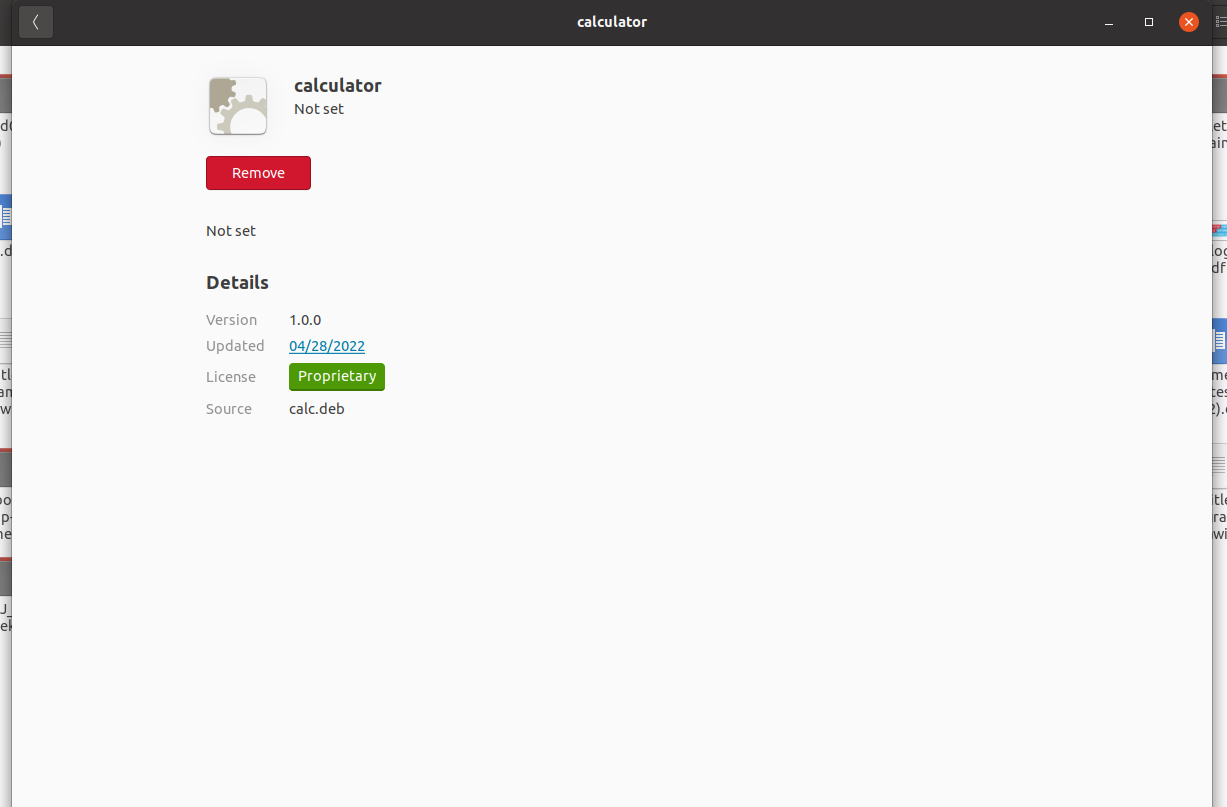
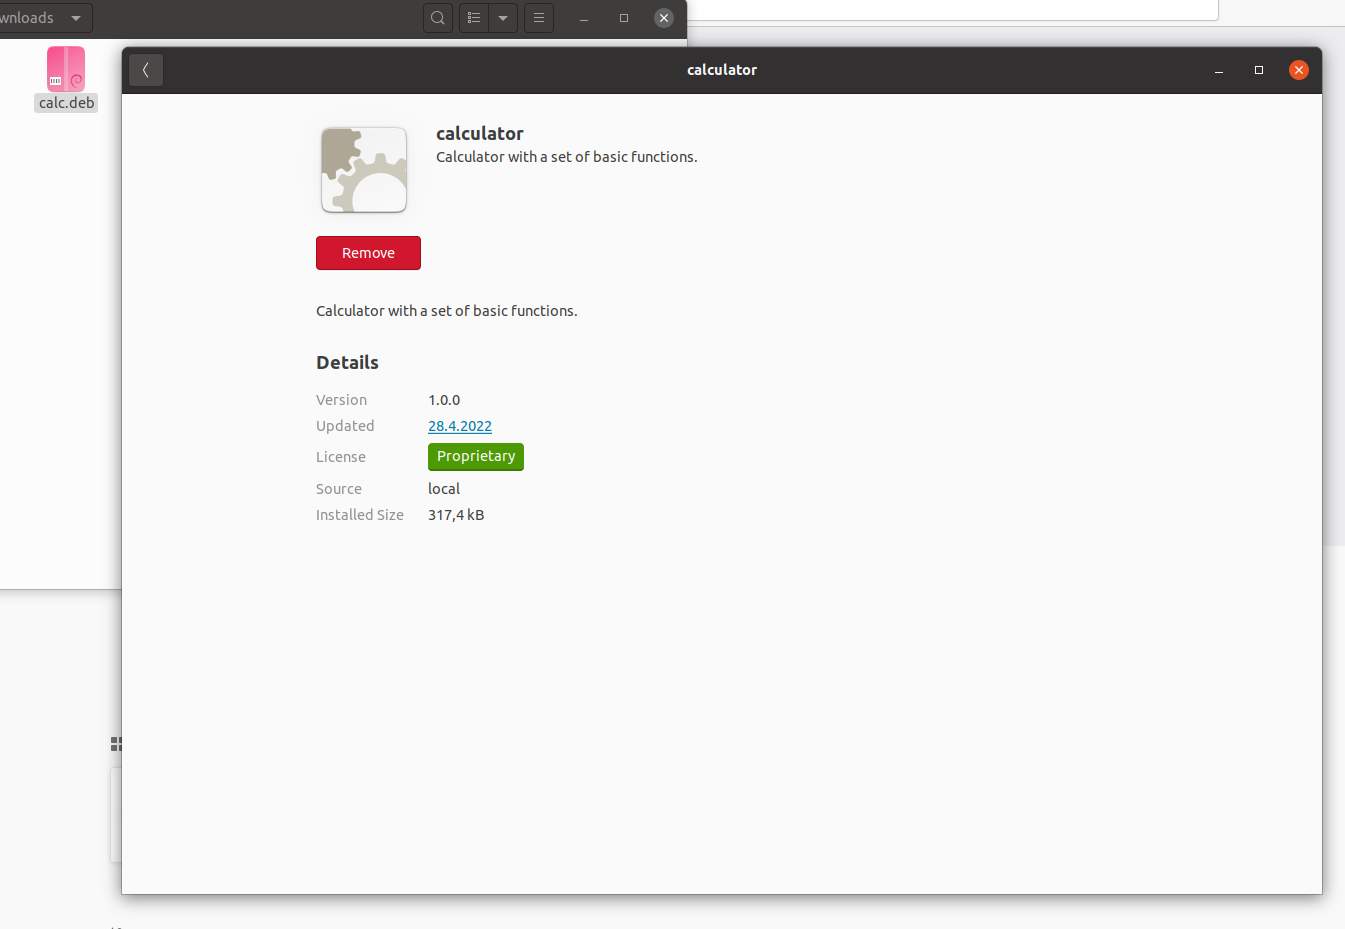
Add a description to debian control file. Add images to readme.

Changed region(s): [[0.0, 0.0, 1.0, 1.0], [0.1548, 0.3408, 0.4026, 0.5576]]

diff --git a/README.md b/README.md
@@ -51,7 +51,10 @@ Aktuální ``calc.deb`` můžete stáhnout v [releases](https://github.com/Werti
 
 ## UI
 
-Nainstalujete dvojklikem na soubor, případně pravým kliknutím a zvolením možnosti "Install package".
+Menu pro instalaci otevřete dvojklikem na soubor, případně pravým kliknutím a zvolením možnosti ``Open with Software Install``.
+![install](assets/install_package.png)
+
+Po kliknutí na ``Install`` se aplikace nainstaluje.
 
 ## Terminál
 
@@ -66,13 +69,17 @@ dpkg -i calc.deb
 
 ### Přes balíček
 
-Opakovaným rozkliknutím instalačního debian balíčku se dá aplikace opět odinstalovat.
+Opakovaným otevřením instalačního menu přes debian balíček se dá aplikace opět odinstalovat.
 ![uninstall](assets/uninstall_package.png)
+
+Po kliknutí na ``Remove`` se aplikace odinstaluje.
 
 ### Přes správce aplikací Ubuntu Software
 
 Otevřete aplikaci ubuntu software pro správu aplikací.
 V záložce "Installed" najděte aplikaci ``calculator`` a klikněte na ``Remove``.
+
+![uninstall_software_center](assets/uninstall_software_center.png)
 
 ## Package manager (terminál)
 
